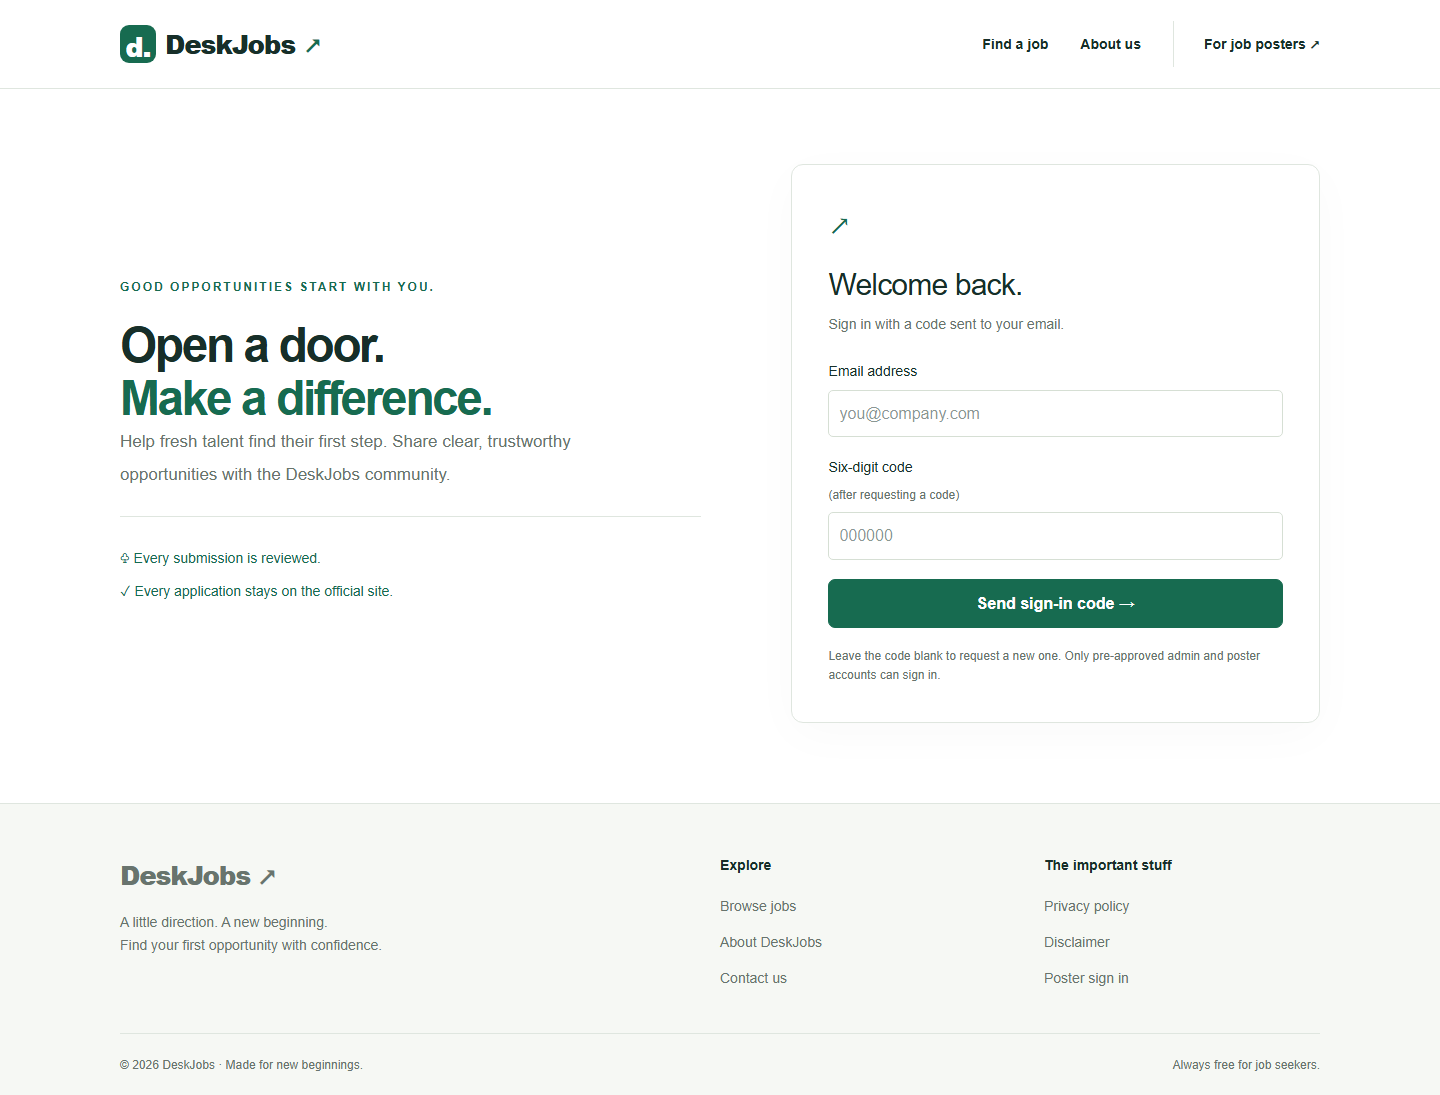
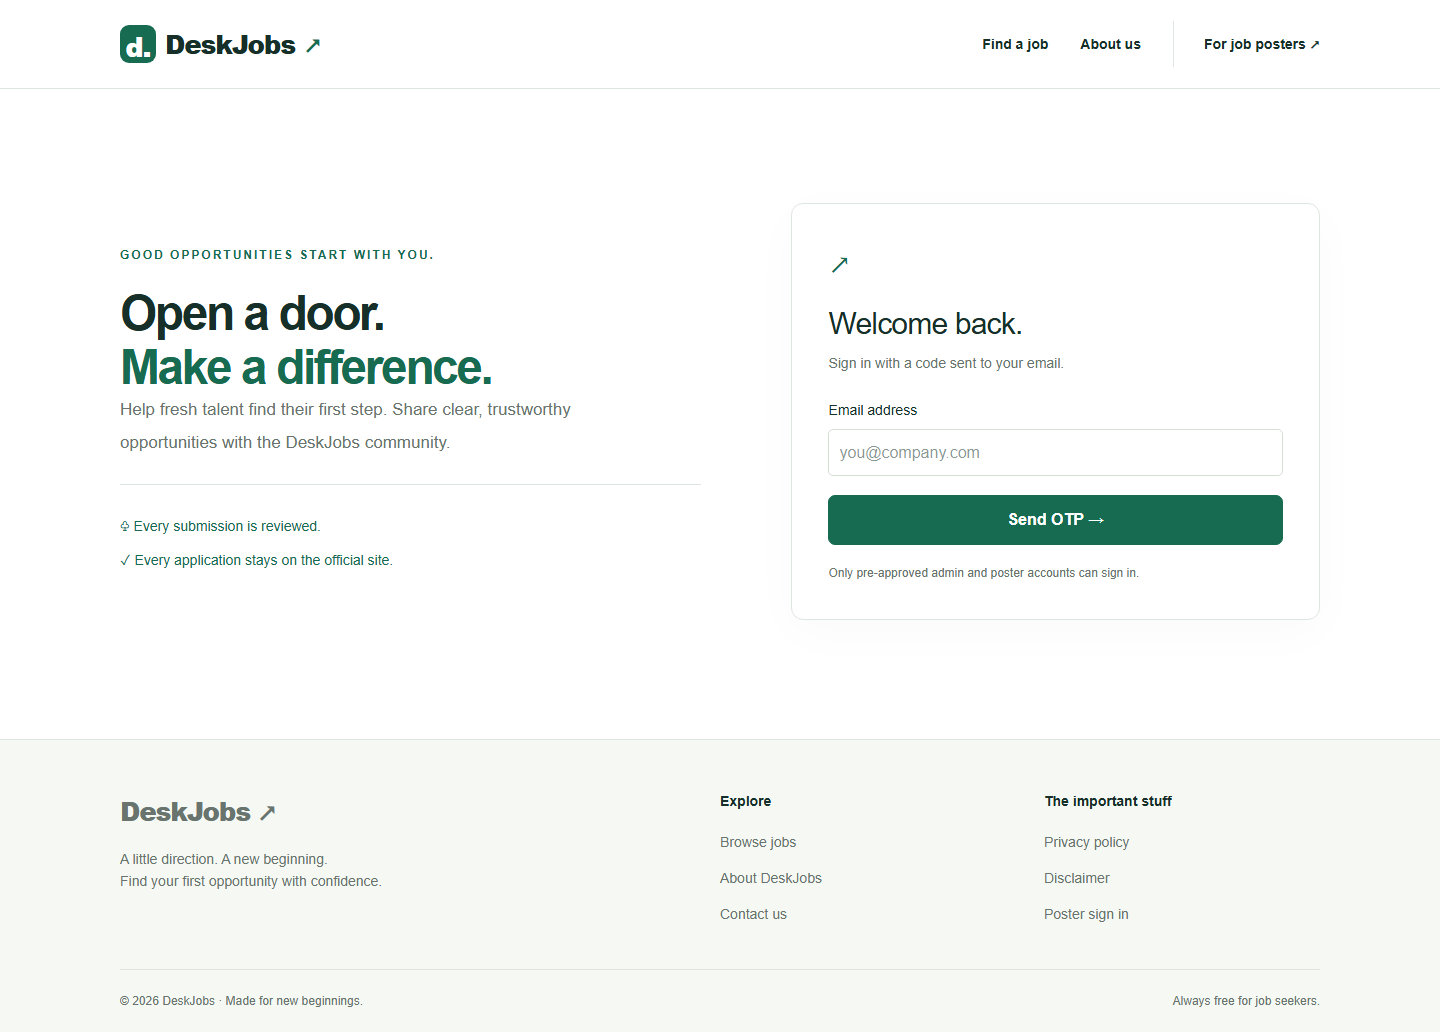
fix: separate OTP request and verification steps
Show Send OTP first, preserve email, and provide explicit Verify, Resend OTP and Change email actions. Reject empty verification codes instead of treating them as sends. Isolate browser tests on port 3100 without Supabase credentials. Lint, types, 11 unit tests, 36 browser tests and production build pass. Three responsive login screenshots reviewed and updated. OTP UI transitions use mocked action results; no email was sent. Corrected a test assertion to inspect validity.valueMissing because ValidityState cannot be compared through toHaveJSProperty with an asymmetric matcher.

diff --git a/tests/ui/auth.spec.ts b/tests/ui/auth.spec.ts
@@ -9,8 +9,59 @@ test('admin routes require auth and login is accessible', async ({ page }, info)
     caret: 'initial',
   });
   await page.getByLabel('Email address').fill('poster@example.com');
-  await page.getByRole('button', { name: 'Send sign-in code' }).click();
+  await expect(page.getByLabel('Six-digit code')).toHaveCount(0);
+  await expect(page.getByRole('button', { name: 'Verify code' })).toHaveCount(0);
+  await page.getByRole('button', { name: 'Send OTP' }).click();
   await expect(page.getByRole('status')).toContainText('not configured');
+  await expect(page.getByLabel('Email address')).toHaveValue('poster@example.com');
+  await expect(page.getByRole('button', { name: 'Send OTP' })).toBeVisible();
   await page.goto('/admin/users');
   await expect(page).toHaveURL(/\/admin\/login/);
+});
+
+test('OTP steps preserve email and offer explicit resend and change actions', async ({
+  page,
+}, info) => {
+  // Mock only the action result: no OTP delivery or real account is involved.
+  await page.route('**/admin/login', async (route) => {
+    if (route.request().method() !== 'POST') return route.continue();
+    const response = await route.fetch();
+    const body = await response.text();
+    if (body.includes('Sign-in is not configured yet.')) {
+      await route.fulfill({
+        response,
+        body: body
+          .replace(
+            'Sign-in is not configured yet. Connect Supabase using SETUP.md.',
+            'Test code requested.',
+          )
+          .replace('"sent":false', '"sent":true'),
+      });
+    } else await route.fulfill({ response });
+  });
+  await page.goto('/admin/login');
+  await page.getByLabel('Email address').fill('poster@example.com');
+  await page.getByRole('button', { name: 'Send OTP', exact: false }).click();
+  await expect(page.getByLabel('Six-digit code')).toBeVisible();
+  await expect(page.getByLabel('Email address')).toHaveValue('poster@example.com');
+  await expect(page.getByLabel('Email address')).toHaveAttribute('readonly', '');
+  await page.getByRole('button', { name: 'Verify code' }).click();
+  expect(
+    await page
+      .getByLabel('Six-digit code')
+      .evaluate((input: HTMLInputElement) => input.validity.valueMissing),
+  ).toBe(true);
+  await expect(page.getByLabel('Six-digit code')).toBeFocused();
+  await page.getByLabel('Six-digit code').fill('12');
+  await page.getByRole('button', { name: 'Resend OTP', exact: true }).click();
+  await expect(page.getByRole('status')).toHaveText('Test code requested.');
+  await page.screenshot({
+    path: `screenshots/login-verify-${info.project.name}.png`,
+    fullPage: true,
+  });
+  await page.getByRole('button', { name: 'Change email address', exact: true }).click();
+  await expect(page.getByLabel('Six-digit code')).toHaveCount(0);
+  await expect(page.getByLabel('Email address')).toBeEditable();
+  await expect(page.getByLabel('Email address')).toHaveValue('poster@example.com');
+  await expect(page.getByRole('button', { name: 'Send OTP' })).toBeVisible();
 });

diff --git a/components/login-form.tsx b/components/login-form.tsx
@@ -1,8 +1,9 @@
 'use client';
-import { useActionState } from 'react';
+import { useActionState, useState } from 'react';
 import { login } from '@/app/admin/login/actions';
 export function LoginForm() {
   const [state, action, pending] = useActionState(login, { message: '', sent: false });
+  const [email, setEmail] = useState('');
   return (
     <form action={action} className="login-form">
       <label>
@@ -14,31 +15,61 @@ export function LoginForm() {
           autoComplete="email"
           required
           maxLength={254}
+          value={email}
+          onChange={(event) => setEmail(event.target.value)}
+          readOnly={state.sent}
         />
       </label>
-      <label>
-        Six-digit code <span>(after requesting a code)</span>
-        <input
-          name="token"
-          inputMode="numeric"
-          pattern="[0-9]{6}"
-          maxLength={6}
-          autoComplete="one-time-code"
-          placeholder="000000"
-        />
-      </label>
-      <button className="button" disabled={pending}>
-        {pending ? 'Please wait…' : state.sent ? 'Verify code & sign in →' : 'Send sign-in code →'}
+      {state.sent && (
+        <label>
+          Six-digit code
+          <input
+            name="token"
+            inputMode="numeric"
+            pattern="[0-9]{6}"
+            maxLength={6}
+            autoComplete="one-time-code"
+            placeholder="000000"
+            required
+          />
+        </label>
+      )}
+      <button
+        className="button"
+        name="intent"
+        value={state.sent ? 'verify' : 'send'}
+        disabled={pending}
+      >
+        {pending ? 'Please wait…' : state.sent ? 'Verify code & sign in →' : 'Send OTP →'}
       </button>
+      {state.sent && (
+        <>
+          <button
+            className="button secondary"
+            name="intent"
+            value="send"
+            formNoValidate
+            disabled={pending}
+          >
+            Resend OTP
+          </button>
+          <button
+            className="button secondary"
+            name="intent"
+            value="change"
+            formNoValidate
+            disabled={pending}
+          >
+            Change email address
+          </button>
+        </>
+      )}
       {state.message && (
         <p role="status" className="form-message">
           {state.message}
         </p>
       )}
-      <p className="form-help">
-        Leave the code blank to request a new one. Only pre-approved admin and poster accounts can
-        sign in.
-      </p>
+      <p className="form-help">Only pre-approved admin and poster accounts can sign in.</p>
     </form>
   );
 }

diff --git a/app/admin/login/actions.ts b/app/admin/login/actions.ts
@@ -6,17 +6,21 @@ import { configured } from '@/lib/config';
 import { serverDb } from '@/lib/supabase/server';
 import { rateLimit, requestIdentity } from '@/lib/rate-limit';
 export async function login(_state: { message: string; sent: boolean }, form: FormData) {
+  const intent = form.get('intent');
+  if (intent === 'change') return { message: '', sent: false };
+  if (intent !== 'send' && intent !== 'verify')
+    return { message: 'Choose Send OTP or Verify code.', sent: _state.sent };
   const parsed = z
     .object({
       email: z.email().max(254),
-      token: z
-        .string()
-        .regex(/^\d{6}$/)
-        .or(z.literal('')),
+      token: z.string().regex(intent === 'verify' ? /^\d{6}$/ : /^$/),
     })
-    .safeParse({ email: form.get('email'), token: form.get('token') || '' });
+    .safeParse({ email: form.get('email'), token: intent === 'verify' ? form.get('token') : '' });
   if (!parsed.success)
-    return { message: 'Enter a valid email and a six-digit code if provided.', sent: false };
+    return {
+      message: 'Enter a valid email and, when verifying, a six-digit code.',
+      sent: _state.sent,
+    };
   if (!configured)
     return {
       message: 'Sign-in is not configured yet. Connect Supabase using SETUP.md.',
@@ -36,7 +40,7 @@ export async function login(_state: { message: string; sent: boolean }, form: Fo
     )
       return {
         message: 'Too many attempts. Please wait ten minutes before trying again.',
-        sent: !token,
+        sent: _state.sent,
       };
     const db = await serverDb();
     if (!token) {
@@ -55,7 +59,7 @@ export async function login(_state: { message: string; sent: boolean }, form: Fo
   } catch {
     return {
       message: 'Sign-in is temporarily unavailable. Please try again shortly.',
-      sent: false,
+      sent: _state.sent,
     };
   }
   redirect('/admin');

diff --git a/playwright.config.ts b/playwright.config.ts
@@ -2,16 +2,23 @@ import { defineConfig } from '@playwright/test';
 export default defineConfig({
   testDir: './tests/ui',
   fullyParallel: true,
-  use: { baseURL: 'http://localhost:3000' },
+  use: { baseURL: 'http://localhost:3100' },
   projects: [
     { name: 'mobile', use: { viewport: { width: 390, height: 844 } } },
     { name: 'tablet', use: { viewport: { width: 768, height: 1024 } } },
     { name: 'desktop', use: { viewport: { width: 1440, height: 900 } } },
   ],
   webServer: {
-    command: 'npm run dev',
-    url: 'http://localhost:3000',
-    reuseExistingServer: !process.env.CI,
-    env: { NEXT_PUBLIC_APPLY_DELAY_SECONDS: '2', DEMO_MODE: 'true' },
+    command: 'npm run dev -- --port 3100',
+    url: 'http://localhost:3100',
+    reuseExistingServer: false,
+    env: {
+      NEXT_PUBLIC_APPLY_DELAY_SECONDS: '2',
+      DEMO_MODE: 'true',
+      PLAYWRIGHT_TEST: 'true',
+      NEXT_PUBLIC_SUPABASE_URL: '',
+      NEXT_PUBLIC_SUPABASE_ANON_KEY: '',
+      SUPABASE_SERVICE_ROLE_KEY: '',
+    },
   },
 });

diff --git a/next.config.ts b/next.config.ts
@@ -1,5 +1,6 @@
 import type { NextConfig } from 'next';
 const config: NextConfig = {
+  distDir: process.env.PLAYWRIGHT_TEST === 'true' ? '.next-test' : '.next',
   devIndicators: false,
   poweredByHeader: false,
   async headers() {

diff --git a/README.md b/README.md
@@ -33,7 +33,7 @@ npm run seed
 npm run format
 ```
 
-`seo:check` and Lighthouse need a running server with at least five current jobs for the five-page SEO check. Use a separate staging database or local demo data. `SEO_BASE_URL` overrides localhost. Playwright starts a demo development server, uses a two-second apply delay, and captures screenshots in `/screenshots` at 390×844, 768×1024 and 1440×900. Overflow checks additionally cover 360 and 1024px. Stop another running localhost server before tests so the test environment is deterministic.
+`seo:check` and Lighthouse need a running server with at least five current jobs for the five-page SEO check. Use a separate staging database or local demo data. `SEO_BASE_URL` overrides localhost. Playwright starts an isolated demo development server on port 3100 with Supabase credentials cleared, uses a two-second apply delay, and captures screenshots in `/screenshots` at 390×844, 768×1024 and 1440×900. Overflow checks additionally cover 360 and 1024px. Your normal localhost:3000 development server can remain running during browser tests.
 
 The feature verification sequence is `scripts/verify.ps1` on Windows. CI runs the equivalent commands on Linux. Husky runs lint-staged and a project-wide typecheck before commits. Tests use PGlite (real embedded PostgreSQL) for RLS and trigger assertions; it supplies a minimal Supabase Auth schema. Staging tests must also verify real Supabase sessions and email delivery.
 
@@ -62,3 +62,4 @@ Use the daily expiry endpoint and maintenance checklist in SETUP.md. Keep report
 ## Verification records
 
 Screenshots are saved in `screenshots/`; final reference PNGs are committed in the documentation commit. Production Lighthouse JSON/HTML and the final verification summary are in `verification/`. Lab Lighthouse scores do not establish field INP or guarantee performance on a deployed host. No remote push or deployment is performed by this build.
+
